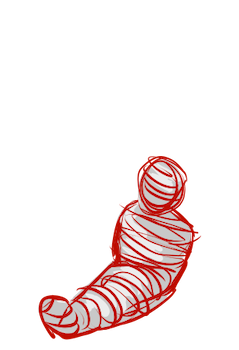
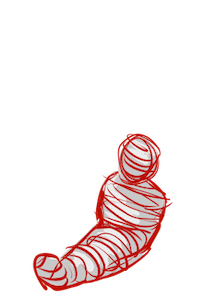
Change mummy size

diff --git a/src/scenes/Play.js b/src/scenes/Play.js
@@ -23,7 +23,7 @@ class Play extends Phaser.Scene {
         
         // add obstacles
         this.ob01 = new Obstacles(this, game.config.width + 10, 130, 'body', 0).setOrigin(0, 0);
-        this.ob02 = new Obstacles(this, game.config.width + 10, 130, 'mummy', 0).setOrigin(0,0);
+        this.ob02 = new Obstacles(this, game.config.width + 10, 185, 'mummy', 0).setOrigin(0, 0);
 
         // borders
         /*
@@ -104,22 +104,32 @@ class Play extends Phaser.Scene {
         this.lab.tilePositionX += 15;
 
         this.scientist.update();
+
+        this.scientist.isRunning = false;
+        this.scientist.isJumping = false;
+        this.scientist.isSliding = false;
+        this.scientist.setSize(200,250);
+        this.scientist.setOffset(10,10);
         
-        //this.ob01.update();
+        this.ob01.update();
         //this.ob02.update();
 
 
         // running
-        /*
+        
         if(!this.scientist.isRunning) {
-            if(keyA.isDown && this.scientist.x >= borderUISize + this.scientist.width) {
+            if(keyD.isDown && this.scientist.x >= borderUISize + this.scientist.width) {
+                //this.scientist.x += this.scientist.moveSpeed;
+                this.scientist.setSize(200,250);
+                this.scientist.setOffset(10,10);
+                this.scientist.isRunning = true;
+                this.scientist.anims.play('run');
+            } /*else if (keyA.isDown && this.scientist.x <= game.config.width - borderUISize - this.scientist.width) {
                 this.scientist.x -= this.scientist.moveSpeed;
-            } else if (keyD.isDown && this.scientist.x <= game.config.width - borderUISize - this.scientist.width) {
-                this.scientist.x += this.scientist.moveSpeed;
-            }
+            }*/
         }
-        */
-
+        
+        /*
         //running
         if(this.scientist.isRunning){
             this.scientist.setSize(200,250);
@@ -127,6 +137,7 @@ class Play extends Phaser.Scene {
             this.scientist.isRunning = true;
             this.scientist.anims.play('run');
         }
+        */
     
         // jumping
         if(!this.scientist.isJumping && !this.scientist.isSliding){
@@ -146,7 +157,7 @@ class Play extends Phaser.Scene {
                 this.scientist.isRunning = false;
                 this.scientist.isSliding = true;
                 this.scientist.setSize(200, 125);
-                this.scientist.setOffset(0, 125);
+                this.scientist.setOffset(0, 20);
                 this.scientist.anims.play('slide');
             }
             //on key up: slide = false, run = true

diff --git a/src/prefabs/Runner.js b/src/prefabs/Runner.js
@@ -5,11 +5,10 @@ class Runner extends Phaser.GameObjects.Sprite{
         // add object to existing scene
         scene.add.existing(this);
 
-        this.isRunning = false;
         this.moveSpeed = 7;
+        this.isRunning = false;
         this.isJumping = false;
         this.isSliding = false;
-        
     }
 
     update(){
@@ -31,5 +30,3 @@ class Runner extends Phaser.GameObjects.Sprite{
         }
     }
 }
-
-//hide scientist, play animation, reposition scientist
